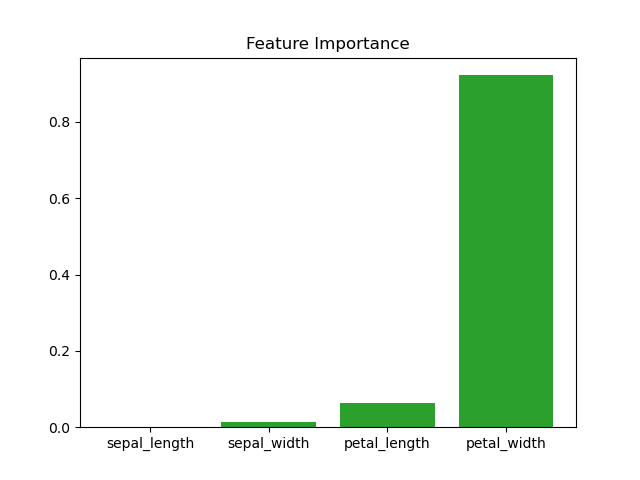
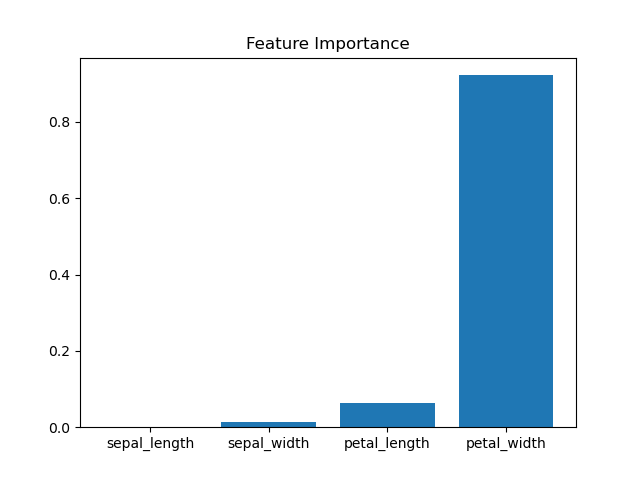
updated model prediction
shap is not working

Changed region(s): [[0.7188, 0.1562, 0.875, 0.9062], [0.5312, 0.8125, 0.6875, 0.9062], [0.3438, 0.875, 0.5, 0.9062]]

diff --git a/ml_project/wcb/templates/model_prediction.html b/ml_project/wcb/templates/model_prediction.html
@@ -1,14 +1,36 @@
 {% extends 'base.html' %}
+{% load static %}
 
 {% block content %}
-<form action="" method="post">
-    {% csrf_token %}
-    {{ form }}
-    <input type="submit" value="Submit">
-</form>
+<div style="display: flex; justify-content: space-between;">
+    <!-- Left Column -->
+    <div style="width: 45%;">
+        <h2>Model Prediction</h2>
+        <form action="" method="post">
+            {% csrf_token %}
+            {{ form.as_p }}
+            <input type="submit" value="Submit">
+        </form>
+    </div>
 
-{% if form.is_valid %}
-<p> The model predicted: <b>{{ prediction }}</b></p>
-{% endif %}
+    <!-- Right Column -->
+    <div style="width: 50%;">
+        {% if prediction %}
+        <h2>Prediction Result</h2>
+        <p>The model predicted: <b>{{ prediction }}</b></p>
+        {% endif %}
 
+    <!-- SHAP Explanation   --> 
+        #{% if shap_plot %}
+        #<h2>SHAP Explanation</h2>
+        #<img src="{{ shap_plot }}" alt="SHAP Explanation" style="width: 100%; height: auto;">
+        #{% endif %}
+    <!-- Feature Importance -->   
+
+        {% if feature_importance_plot %}
+        <h2>Feature Importance</h2>
+        <img src="{{ feature_importance_plot }}" alt="Feature Importance" style="width: 100%; height: auto;">
+        {% endif %}
+    </div>
+</div>
 {% endblock %}

diff --git a/ml_project/wcb/views.py b/ml_project/wcb/views.py
@@ -1,7 +1,10 @@
-import os
 import pandas as pd
+import numpy as np
+import os
+import shap
 import matplotlib.pyplot as plt
 from django.shortcuts import render
+from django.conf import settings
 from django.conf import settings
 from sklearn.metrics import classification_report
 
@@ -14,6 +17,9 @@ MODEL_PATH = os.path.join(settings.BASE_DIR, 'ml_project', 'ml_model', 'wcb_mode
 def home(request):
     return render(request, 'home.html')
 def model_prediction(request):
+    shap_plot_path = os.path.join(settings.MEDIA_ROOT, 'shap_plot.png')
+    feature_importance_path = os.path.join(settings.STATIC_ROOT, 'feature_importance.png')
+
     if request.method == 'POST':
         form = ModelForm(request.POST)
         if form.is_valid():
@@ -22,7 +28,8 @@ def model_prediction(request):
             petal_length = form.cleaned_data['petal_length']
             petal_width = form.cleaned_data['petal_width']
 
-            model_features = [[sepal_length, sepal_width, petal_length, petal_width]]
+            # Convert the input to a NumPy array
+            model_features = np.array([[sepal_length, sepal_width, petal_length, petal_width]])
 
             if not os.path.exists(MODEL_PATH):
                 raise FileNotFoundError(f"Model file not found at: {MODEL_PATH}")
@@ -30,6 +37,7 @@ def model_prediction(request):
             with open(MODEL_PATH, 'rb') as model_file:
                 loaded_model = pickle.load(model_file)
 
+            # Make Prediction
             prediction = loaded_model.predict(model_features)[0]
             prediction_name_list = ['setosa', 'versicolor', 'virginica']
             prediction_name = prediction_name_list[prediction]
@@ -42,7 +50,35 @@ def model_prediction(request):
                 prediction=prediction_name
             )
 
-            return render(request, 'model_prediction.html', {'form': form, 'prediction': prediction_name})
+            ## Generate SHAP Explanation
+            #explainer = shap.Explainer(loaded_model,
+            #                           feature_names=['sepal_length', 'sepal_width', 'petal_length', 'petal_width'])
+            #shap_values = explainer(model_features)
+            #
+            ## Select SHAP values for the predicted class
+            #if isinstance(shap_values, list):  # For multi-class classification
+            #    shap_values_for_class = shap_values[prediction]
+            #else:  # For single-output models
+            #    shap_values_for_class = shap_values
+            #
+            ## Waterfall Plot
+            #shap.plots.waterfall(shap_values[0, 0])
+            #plt.savefig(shap_plot_path)
+
+            # Generate Feature Importance
+            importance = loaded_model.feature_importances_
+            features = ['sepal_length', 'sepal_width', 'petal_length', 'petal_width']
+            plt.figure()
+            plt.bar(features, importance)
+            plt.title('Feature Importance')
+            plt.savefig(feature_importance_path)
+
+            return render(request, 'model_prediction.html', {
+                'form': form,
+                'prediction': prediction_name,
+                'shap_plot': shap_plot_path,
+                'feature_importance_plot': feature_importance_path,
+            })
 
     else:
         form = ModelForm()

diff --git a/ml_project/ml_project/urls.py b/ml_project/ml_project/urls.py
@@ -18,8 +18,11 @@ Including another URLconf
 from django.contrib import admin
 from django.urls import path
 import wcb.views as views
+from django.conf import settings
+from django.conf.urls.static import static
 
 urlpatterns = [
+
     path("admin/", admin.site.urls),
 
     path('', views.home, name='home'),
@@ -27,3 +30,5 @@ urlpatterns = [
     path('feature_importance/', views.feature_importance, name='feature_importance'),
     path('data_summary/', views.data_summary, name='data_summary'),
 ]
+
+urlpatterns += static(settings.STATIC_ROOT, document_root=settings.STATIC_ROOT)
